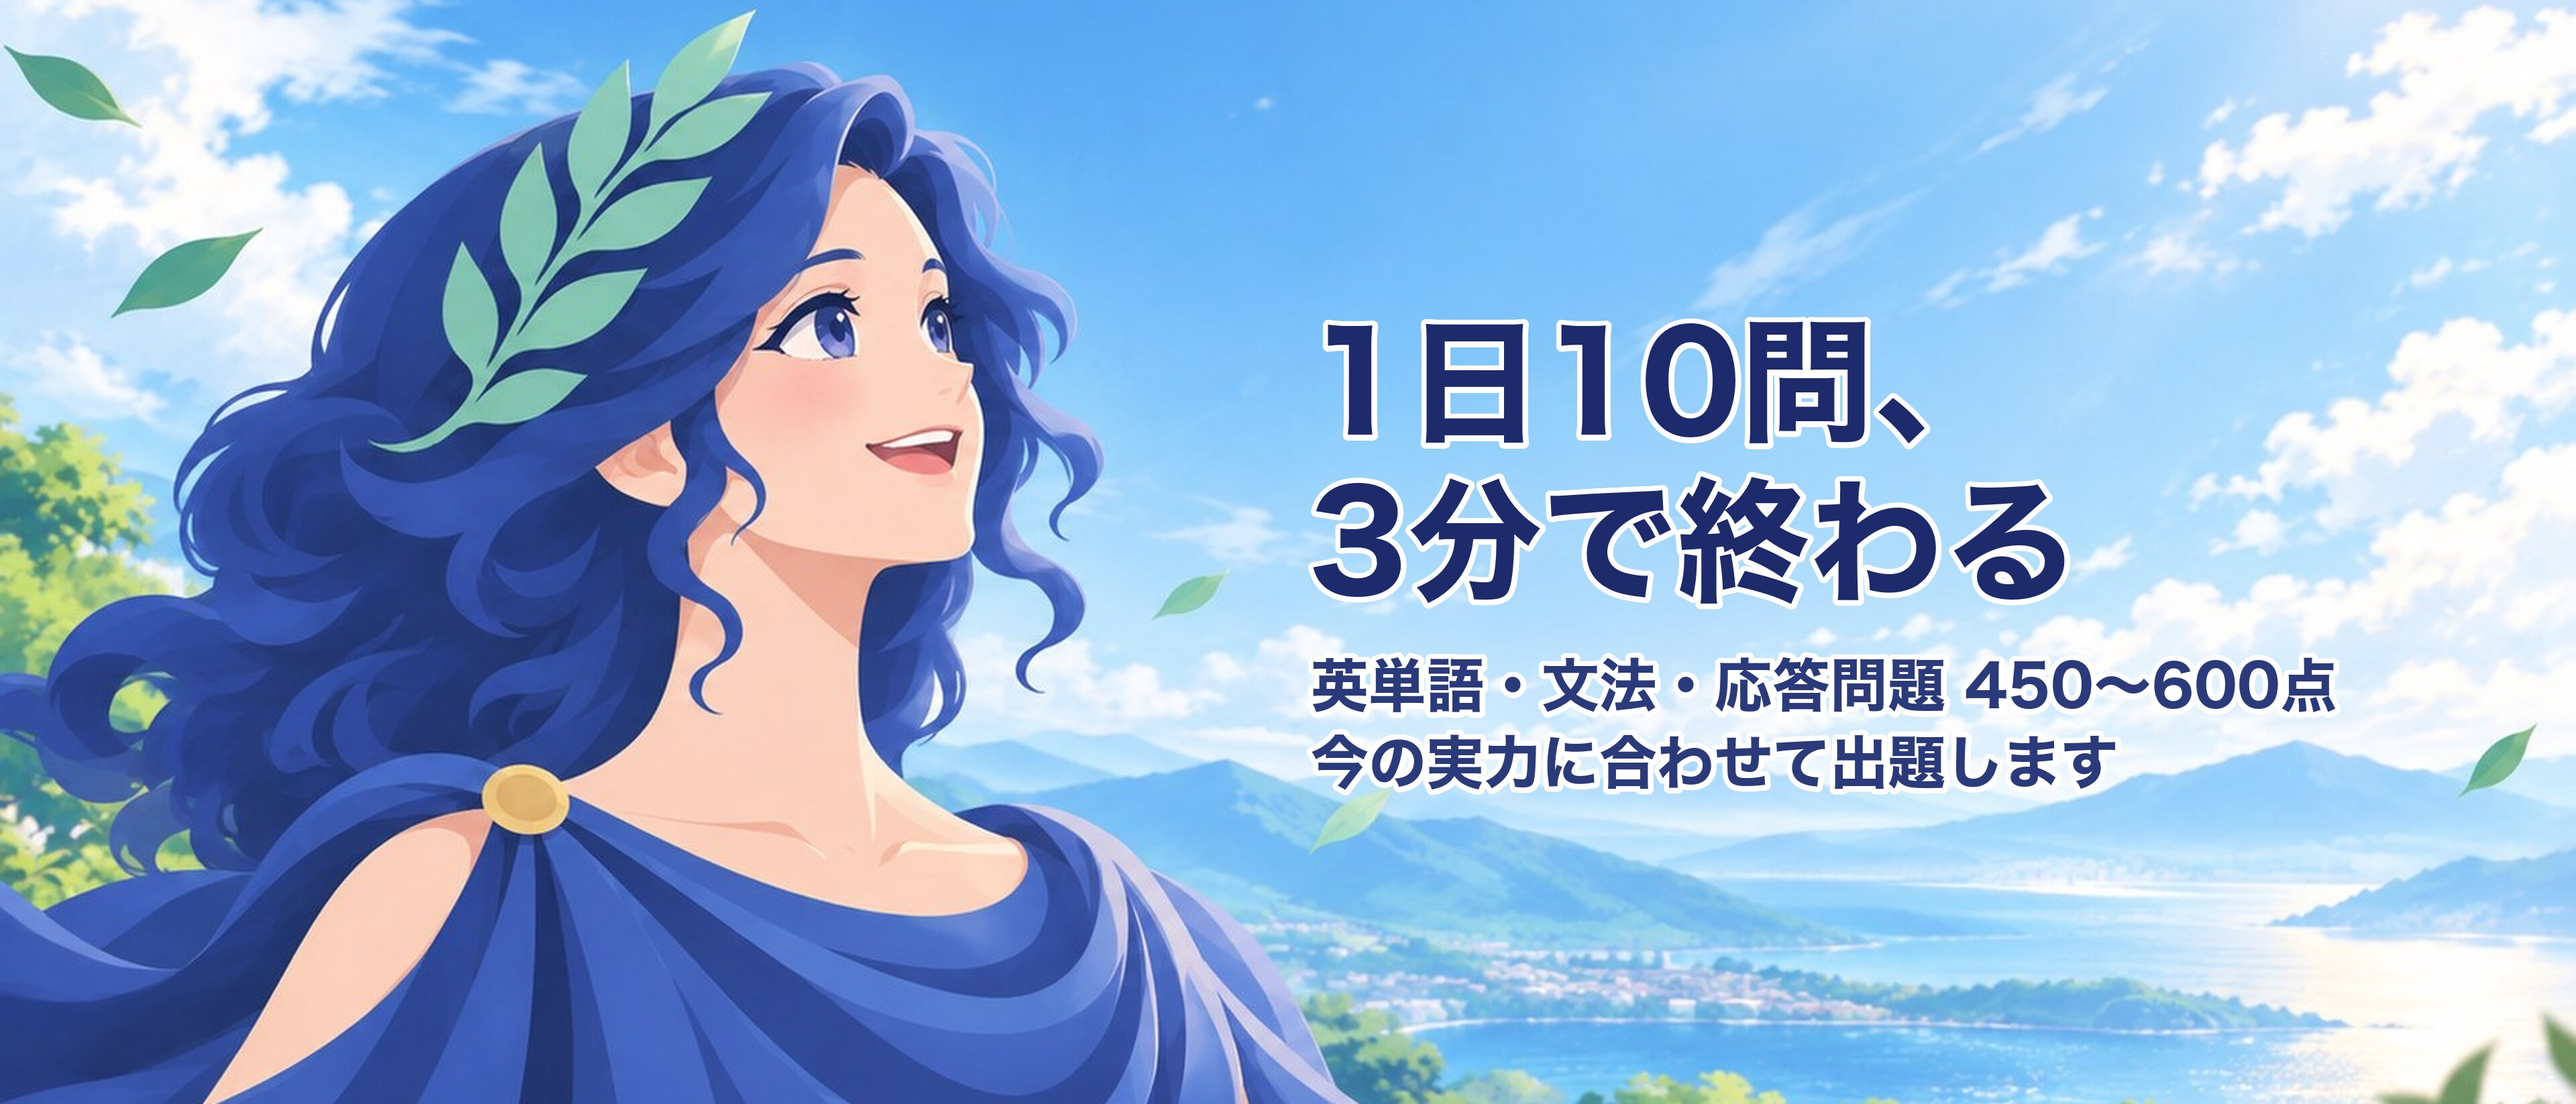
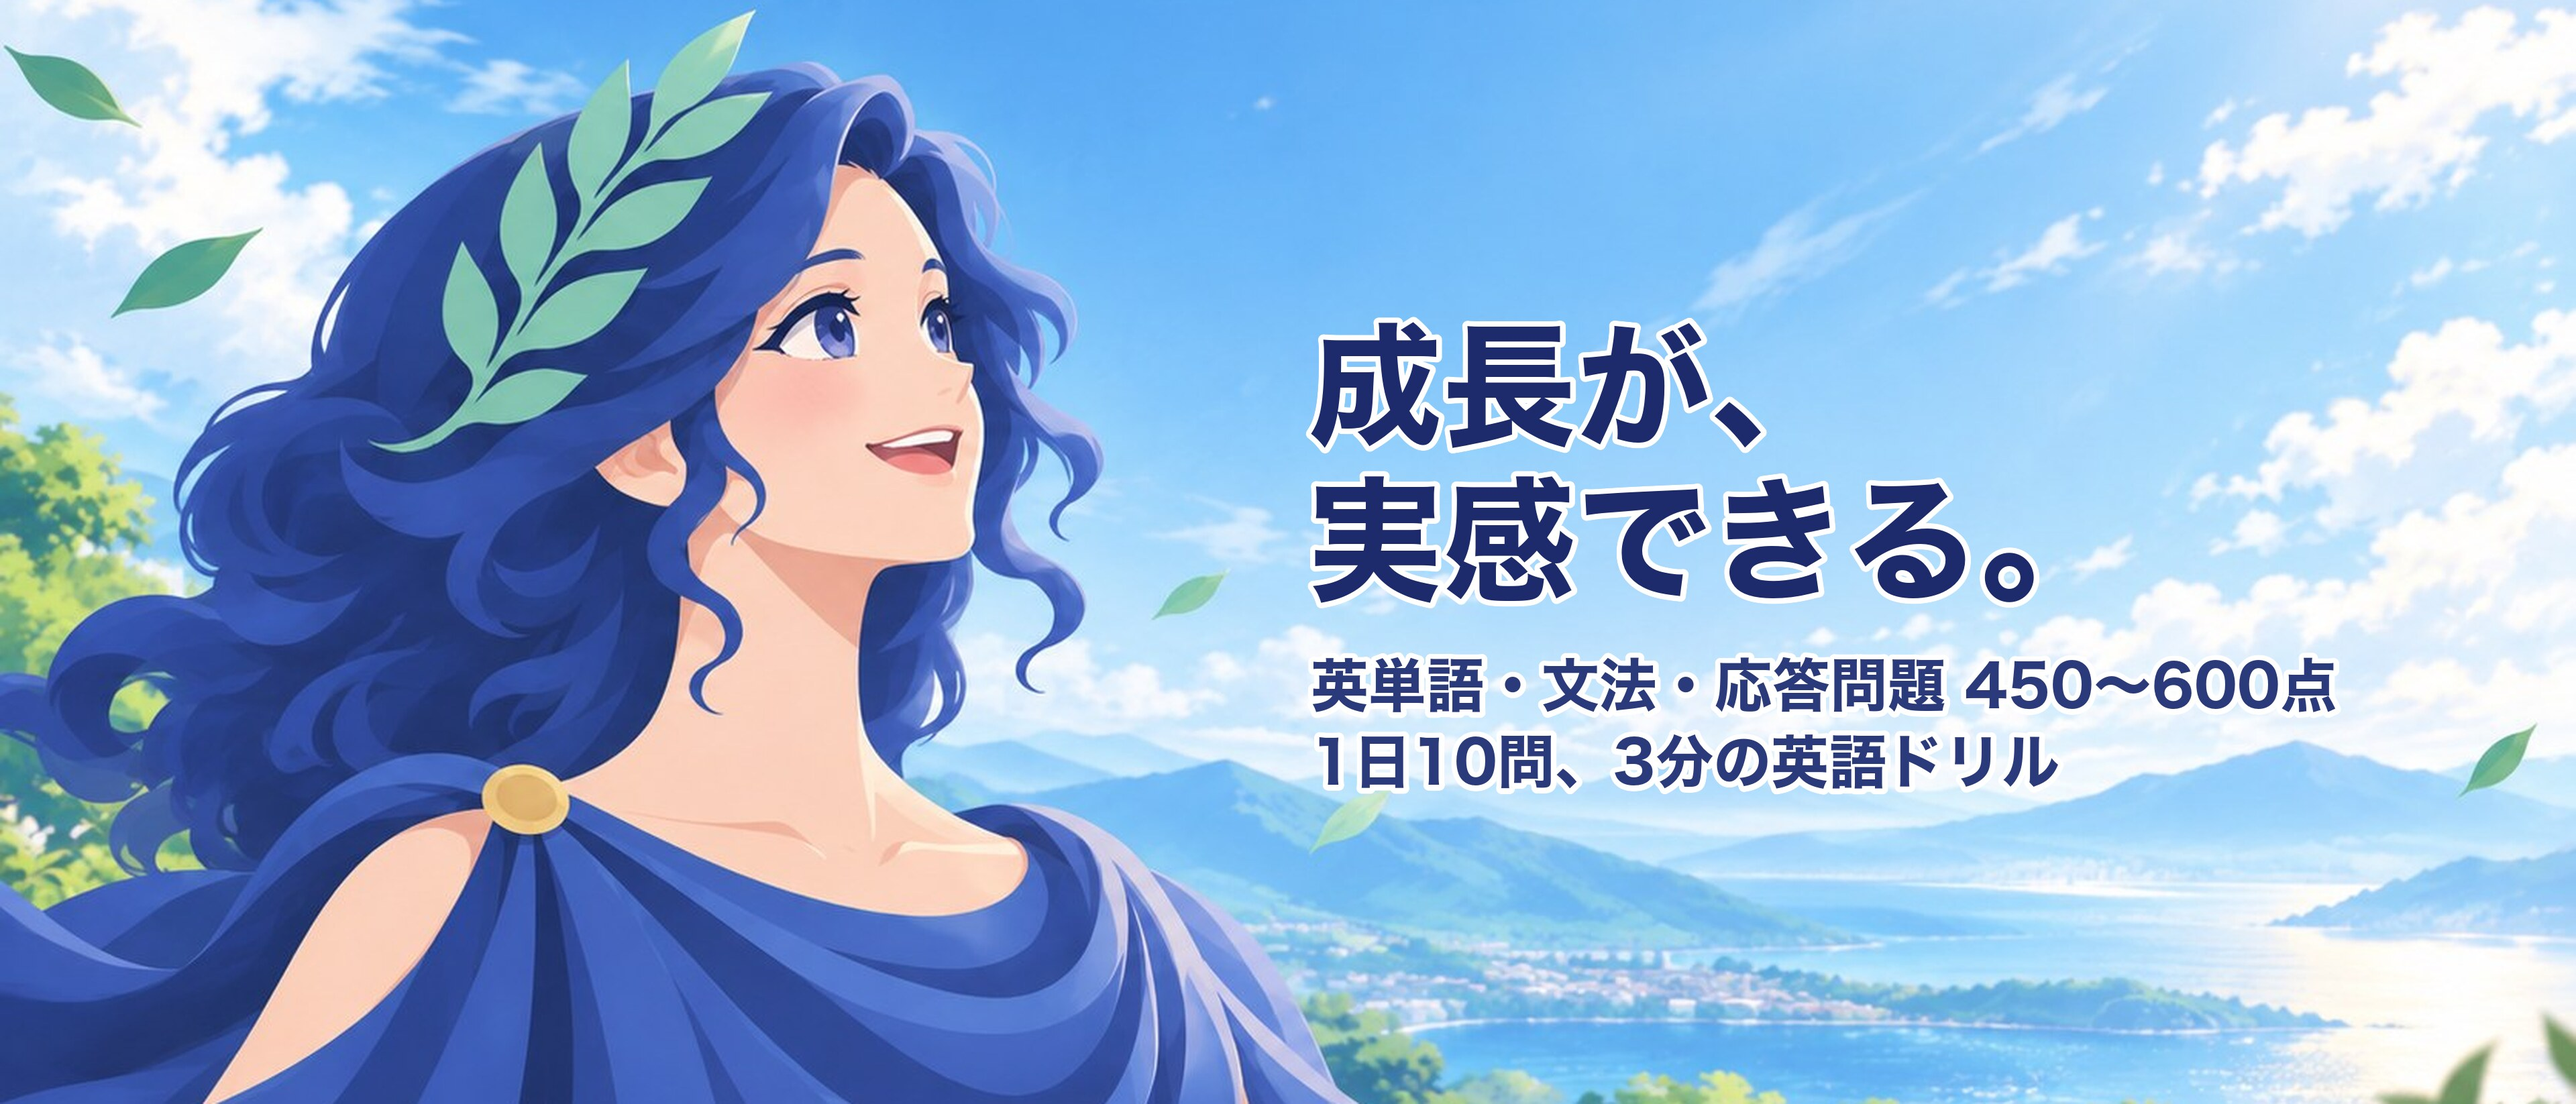
公開ページに「iPhone Duoでも、横向きでも。」の節（内側の 2 列表示の画像）。プレスキットに Duo の画像 2 枚（外側ホーム・内側回答後、枠なしも）、対応・公開・特徴に Duo を追記、キービジュアルを「成長が、実感できる。」版に差し替え

Changed region(s): [[0.5, 0.2789, 0.8125, 0.5577], [0.5, 0.6507, 0.8438, 0.7436]]

diff --git a/docs/press/index.html b/docs/press/index.html
@@ -37,9 +37,9 @@
     <table>
         <tr><th data-ja="名前" data-en="Name">名前</th><td>Agnoria（アグノリア）</td></tr>
         <tr><th data-ja="種類" data-en="Category">種類</th><td data-ja="教育 / 英語学習（TOEIC L&amp;R 450〜600 点帯向けのドリル）" data-en="Education / English learning (a drill for the TOEIC L&amp;R 450 to 600 range)">教育 / 英語学習（TOEIC L&amp;R 450〜600 点帯向けのドリル）</td></tr>
-        <tr><th data-ja="対応" data-en="Platforms">対応</th><td data-ja="iPhone・iPad（iOS / iPadOS 27 以上）。日本語" data-en="iPhone and iPad (iOS / iPadOS 27 or later). Japanese">iPhone・iPad（iOS / iPadOS 27 以上）。日本語</td></tr>
+        <tr><th data-ja="対応" data-en="Platforms">対応</th><td data-ja="iPhone・iPad（iOS / iPadOS 27 以上）。iPhone Duo に最適化。日本語" data-en="iPhone and iPad (iOS / iPadOS 27 or later). Optimized for iPhone Duo. Japanese">iPhone・iPad（iOS / iPadOS 27 以上）。iPhone Duo に最適化。日本語</td></tr>
         <tr><th data-ja="価格" data-en="Price">価格</th><td data-ja="無料。広告なし、課金なし、アカウント登録なし" data-en="Free. No ads, no in-app purchases, no account">無料。広告なし、課金なし、アカウント登録なし</td></tr>
-        <tr><th data-ja="公開" data-en="Released">公開</th><td data-ja="2026 年 10 月 16 日（1.0）。1.3 で応答問題を追加" data-en="October 16, 2026 (1.0). Version 1.3 adds question-response listening">2026 年 10 月 16 日（1.0）。1.3 で応答問題を追加</td></tr>
+        <tr><th data-ja="公開" data-en="Released">公開</th><td data-ja="2026 年 10 月 16 日（1.0）。1.3 で応答問題、1.4（10 月 23 日）で iPhone Duo に対応" data-en="October 16, 2026 (1.0). Version 1.3 adds question-response listening; 1.4 (October 23) is optimized for iPhone Duo">2026 年 10 月 16 日（1.0）。1.3 で応答問題、1.4（10 月 23 日）で iPhone Duo に対応</td></tr>
         <tr><th data-ja="開発" data-en="Developer">開発</th><td data-ja="Shigeru Sawada（個人開発）" data-en="Shigeru Sawada (independent developer)">Shigeru Sawada（個人開発）</td></tr>
         <tr><th>App Store</th><td><a href="https://apps.apple.com/jp/app/id6823061416">https://apps.apple.com/jp/app/id6823061416</a></td></tr>
         <tr><th data-ja="公式サイト" data-en="Website">公式サイト</th><td><a href="https://sawasige.github.io/agnoria/">https://sawasige.github.io/agnoria/</a></td></tr>
@@ -60,6 +60,7 @@
         <li data-ja="1 回 3 分。連続学習日数と 2 週間の学習量、リマインダー通知" data-en="Three minutes a set, with streaks, a two-week chart and reminders">1 回 3 分。連続学習日数と 2 週間の学習量、リマインダー通知</li>
         <li data-ja="450 点帯の基本から 600 点へ、単語・文法・応答問題それぞれで順に進むステージ制" data-en="Stages from the 450 basics to 600, tracked separately for vocabulary, grammar and question-response">450 点帯の基本から 600 点へ、単語・文法・応答問題それぞれで順に進むステージ制</li>
         <li data-ja="応答問題は音声で出題。問いかけと応答で声が変わり、発音は en-US / en-GB / en-AU。文字は答えたあと" data-en="Question-response is audio only, with different voices for question and replies in en-US / en-GB / en-AU. Text appears after you answer">応答問題は音声で出題。問いかけと応答で声が変わり、発音は en-US / en-GB / en-AU。文字は答えたあと</li>
+        <li data-ja="iPhone Duo に最適化。開いた画面と横向きでは、答えたあとに解説を左、問題を右に並べて表示" data-en="Optimized for iPhone Duo: on the inner display and in landscape, the explanation sits on the left and the question on the right after you answer">iPhone Duo に最適化。開いた画面と横向きでは、答えたあとに解説を左、問題を右に並べて表示</li>
         <li data-ja="iCloud 同期、ホーム画面ウィジェット、Apple Intelligence（端末内処理）" data-en="iCloud sync, Home Screen widget, Apple Intelligence (on-device)">iCloud 同期、ホーム画面ウィジェット、Apple Intelligence（端末内処理）</li>
         <li data-ja="広告なし、課金なし、登録なし。開発者のサーバーとは通信しない" data-en="Free, no ads, no account, no developer server">広告なし、課金なし、登録なし。開発者のサーバーとは通信しない</li>
     </ul>
@@ -75,6 +76,8 @@
         <figure><a href="iphone-answered.png"><img src="iphone-answered.png" alt="Explanation"></a><figcaption data-ja="回答後の解説（<a href=&quot;iphone-answered-raw.png&quot;>枠なし</a>）" data-en="Explanation (<a href=&quot;iphone-answered-raw.png&quot;>plain</a>)" data-html>回答後の解説（<a href="iphone-answered-raw.png">枠なし</a>）</figcaption></figure>
         <figure><a href="iphone-listening.png"><img src="iphone-listening.png" alt="Question-response"></a><figcaption data-ja="応答問題（<a href=&quot;iphone-listening-raw.png&quot;>枠なし</a>）" data-en="Question-response (<a href=&quot;iphone-listening-raw.png&quot;>plain</a>)" data-html>応答問題（<a href="iphone-listening-raw.png">枠なし</a>）</figcaption></figure>
         <figure><a href="iphone-clear.png"><img src="iphone-clear.png" alt="Stage cleared"></a><figcaption data-ja="スコア帯クリア（<a href=&quot;iphone-clear-raw.png&quot;>枠なし</a>）" data-en="Stage cleared (<a href=&quot;iphone-clear-raw.png&quot;>plain</a>)" data-html>スコア帯クリア（<a href="iphone-clear-raw.png">枠なし</a>）</figcaption></figure>
+        <figure><a href="duo-outer-home.png"><img src="duo-outer-home.png" alt="iPhone Duo outer display, Home"></a><figcaption data-ja="iPhone Duo 外側・ホーム（<a href=&quot;duo-outer-home-raw.png&quot;>枠なし</a>）" data-en="iPhone Duo outer display, Home (<a href=&quot;duo-outer-home-raw.png&quot;>plain</a>)" data-html>iPhone Duo 外側・ホーム（<a href="duo-outer-home-raw.png">枠なし</a>）</figcaption></figure>
+        <figure><a href="duo-inner-answered.png"><img src="duo-inner-answered.png" alt="iPhone Duo inner display, Explanation"></a><figcaption data-ja="iPhone Duo 内側・回答後の解説（<a href=&quot;duo-inner-answered-raw.png&quot;>枠なし</a>）" data-en="iPhone Duo inner display, Explanation (<a href=&quot;duo-inner-answered-raw.png&quot;>plain</a>)" data-html>iPhone Duo 内側・回答後の解説（<a href="duo-inner-answered-raw.png">枠なし</a>）</figcaption></figure>
     </div>
     <p class="wide"><a href="hero-3x2.jpg"><img src="hero-3x2.jpg" alt="Agnoria key visual 3:2"></a></p>
     <p class="wide"><a href="hero-21x9.jpg"><img src="hero-21x9.jpg" alt="Agnoria key visual 21:9"></a></p>

diff --git a/docs/index.html b/docs/index.html
@@ -310,6 +310,10 @@
             flex: 0 0 260px;
         }
 
+        .feature-detail-image.wide {
+            flex: 0 0 460px;
+        }
+
         .feature-detail-image img {
             width: 100%;
             border-radius: 16px;
@@ -677,6 +681,22 @@
             </div>
             <div class="feature-detail-image">
                 <img src="assets/screenshot4.png" alt="出題" data-alt-ja="出題" data-alt-en="Question">
+            </div>
+        </div>
+    </section>
+
+    <section class="feature-detail">
+        <div class="feature-detail-inner reversed">
+            <div class="feature-detail-text">
+                <h2 data-ja="iPhone Duoでも、横向きでも。" data-en="On iPhone Duo, and in landscape.">iPhone Duoでも、横向きでも。</h2>
+                <p data-html
+                   data-ja="開いた画面や横向きでは、答えたあとに<span class=&quot;accent&quot;>解説を左、問題を右</span>に並べて表示。スクロールせずに「なぜ違うか」まで読めます。"
+                   data-en="On the inner display and in landscape, the <span class=&quot;accent&quot;>explanation sits on the left and the question on the right</span> after you answer, so you can read why without scrolling.">開いた画面や横向きでは、答えたあとに<span class="accent">解説を左、問題を右</span>に並べて表示。スクロールせずに「なぜ違うか」まで読めます。</p>
+                <p data-ja="閉じた画面では、答えると解説が見える位置まで自動で送ります。iPad も同じレイアウトです。"
+                   data-en="On the outer display, the explanation scrolls into view as soon as you answer. iPad shares the same layout.">閉じた画面では、答えると解説が見える位置まで自動で送ります。iPad も同じレイアウトです。</p>
+            </div>
+            <div class="feature-detail-image wide">
+                <img src="assets/screenshot-duo.png" alt="iPhone Duo の回答後" data-alt-ja="iPhone Duo の回答後" data-alt-en="After answering on iPhone Duo">
             </div>
         </div>
     </section>
